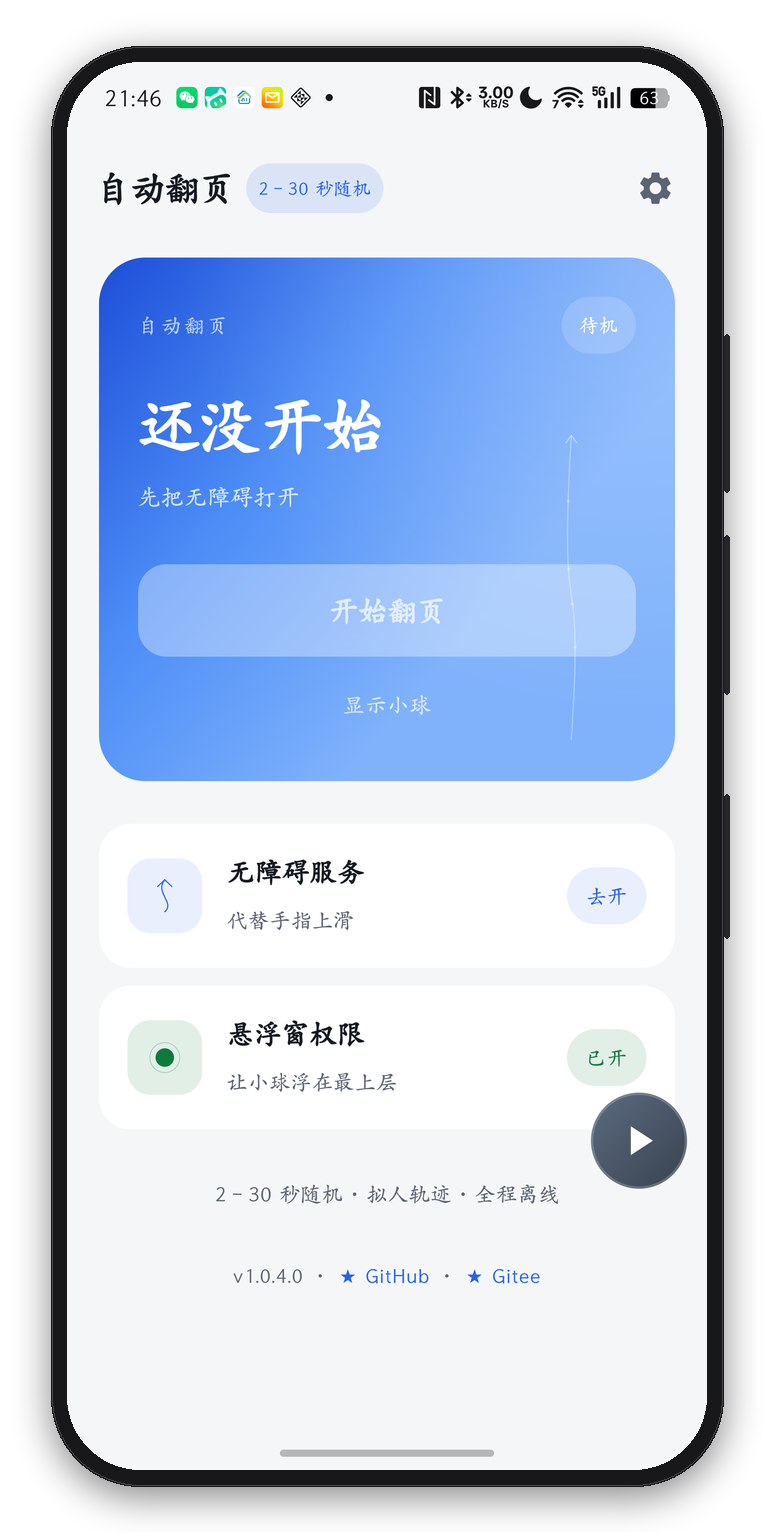
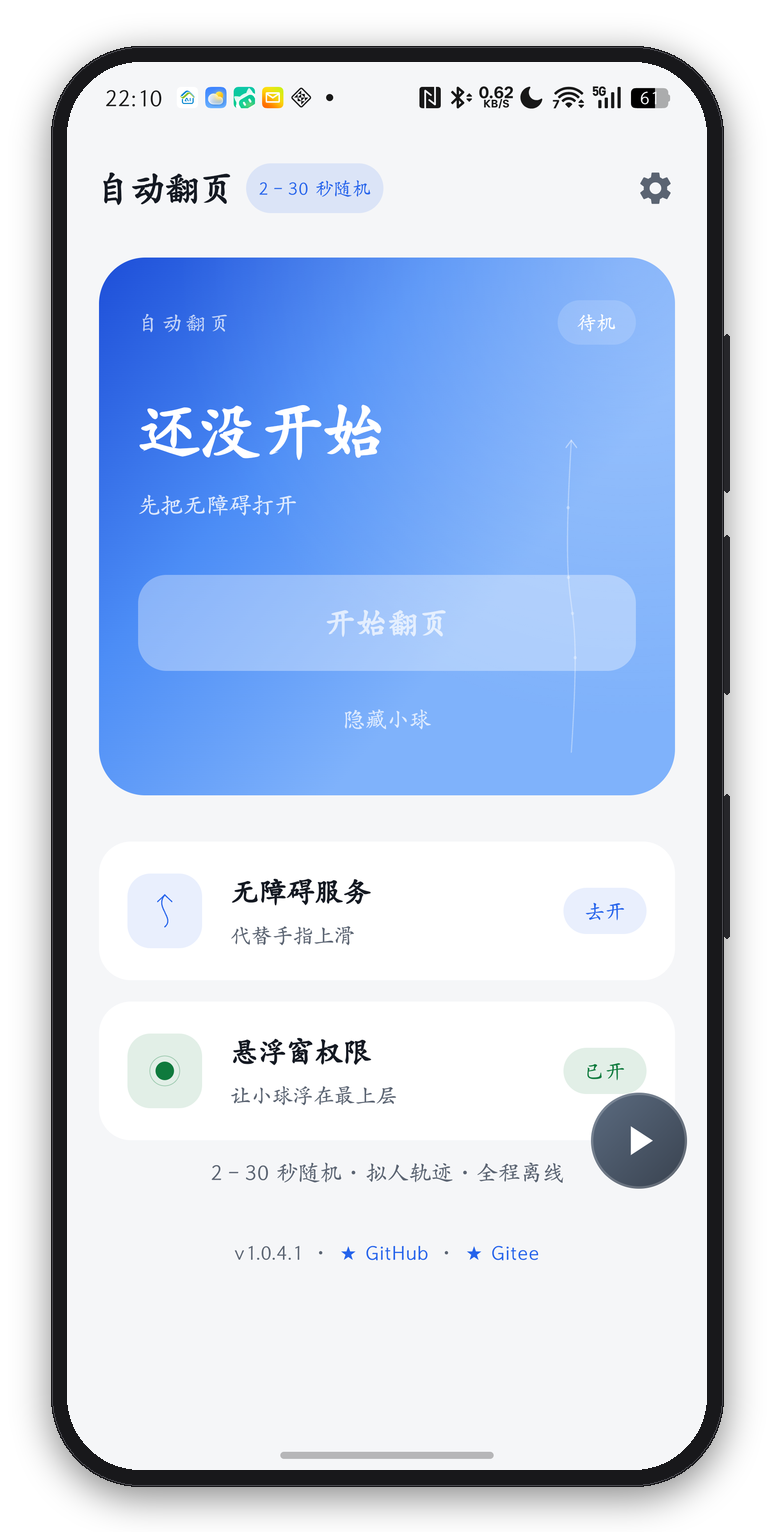
style(ui): 重排首页字距与行距，README 下载与安装前置（1.0.4.1）

diff --git a/app/src/main/java/com/neurotracee/autoswipe/ui/HomeScreen.kt b/app/src/main/java/com/neurotracee/autoswipe/ui/HomeScreen.kt
@@ -74,7 +74,7 @@ fun HomeScreen(
             onToggleBall = onToggleBall
         )
 
-        Spacer(Modifier.height(24.dp))
+        Spacer(Modifier.height(26.dp))
         PermissionRow(
             glyph = Glyph.Swipe,
             title = tr("无障碍服务", "Accessibility"),
@@ -82,7 +82,7 @@ fun HomeScreen(
             done = accessibilityOn,
             onOpen = onOpenAccessibility
         )
-        Spacer(Modifier.height(10.dp))
+        Spacer(Modifier.height(12.dp))
         PermissionRow(
             glyph = Glyph.Ball,
             title = tr("悬浮窗权限", "Overlay"),
@@ -91,19 +91,21 @@ fun HomeScreen(
             onOpen = onOpenOverlay
         )
 
-        Spacer(Modifier.height(24.dp))
+        Spacer(Modifier.height(8.dp))
         Text(
             tr(
                 "2–30 秒随机 · 拟人轨迹 · 全程离线",
-                "2–30 s random · human-like path · fully offline"
+                "2–30 s · human-like · offline"
             ),
-            fontSize = 11.5.sp,
+            fontSize = 12.sp,
+            lineHeight = 20.sp,
+            letterSpacing = 0.4.sp,
             color = MaterialTheme.colorScheme.onSurfaceVariant,
             modifier = Modifier.fillMaxWidth(),
             textAlign = TextAlign.Center
         )
 
-        Spacer(Modifier.height(22.dp))
+        Spacer(Modifier.height(26.dp))
         Footer(onOpenRepo = onOpenRepo, onOpenGitee = onOpenGitee)
         Spacer(Modifier.height(14.dp))
     }
@@ -166,13 +168,14 @@ private fun HeroCard(
             drawSwipeTrail(size.width * 0.82f, size.height * 0.34f, size.height * 0.92f)
         }
 
-        Column(Modifier.padding(horizontal = 22.dp, vertical = 22.dp)) {
+        Column(Modifier.padding(horizontal = 22.dp, vertical = 24.dp)) {
             Row(verticalAlignment = Alignment.CenterVertically) {
                 Text(
                     tr("自动翻页", "AUTO SWIPE"),
                     fontSize = 11.sp,
-                    letterSpacing = 2.sp,
-                    color = Color.White.copy(alpha = 0.7f)
+                    lineHeight = 16.sp,
+                    letterSpacing = 2.4.sp,
+                    color = Color.White.copy(alpha = 0.72f)
                 )
                 Spacer(Modifier.weight(1f))
                 Surface(
@@ -181,24 +184,39 @@ private fun HeroCard(
                 ) {
                     Text(
                         if (running) tr("运行中", "Running") else tr("待机", "Idle"),
-                        Modifier.padding(horizontal = 10.dp, vertical = 4.dp),
+                        Modifier.padding(horizontal = 11.dp, vertical = 5.dp),
                         fontSize = 10.5.sp,
+                        lineHeight = 15.sp,
+                        letterSpacing = 0.6.sp,
                         color = Color.White
                     )
                 }
             }
 
-            Spacer(Modifier.height(18.dp))
-            Text(title, fontSize = 34.sp, fontWeight = FontWeight.Bold, color = Color.White)
-            Spacer(Modifier.height(6.dp))
-            Text(sub, fontSize = 12.5.sp, color = Color.White.copy(alpha = 0.8f))
-
             Spacer(Modifier.height(26.dp))
+            Text(
+                title,
+                fontSize = 34.sp,
+                lineHeight = 42.sp,
+                letterSpacing = 0.6.sp,
+                fontWeight = FontWeight.Bold,
+                color = Color.White
+            )
+            Spacer(Modifier.height(10.dp))
+            Text(
+                sub,
+                fontSize = 12.5.sp,
+                lineHeight = 19.sp,
+                letterSpacing = 0.3.sp,
+                color = Color.White.copy(alpha = 0.82f)
+            )
+
+            Spacer(Modifier.height(30.dp))
             val btnBg = if (accessibilityOn) Color.White else Color.White.copy(alpha = 0.35f)
             Box(
                 Modifier
                     .fillMaxWidth()
-                    .height(52.dp)
+                    .height(54.dp)
                     .clip(RoundedCornerShape(16.dp))
                     .background(btnBg)
                     .clickable(enabled = accessibilityOn) { if (running) onStop() else onStart() },
@@ -206,21 +224,25 @@ private fun HeroCard(
             ) {
                 Text(
                     if (running) tr("暂停", "Pause") else tr("开始翻页", "Start"),
-                    fontSize = 16.sp,
+                    fontSize = 16.5.sp,
+                    lineHeight = 22.sp,
+                    letterSpacing = 1.2.sp,
                     fontWeight = FontWeight.SemiBold,
                     color = if (accessibilityOn) Color(0xFF33406B) else Color.White.copy(alpha = 0.7f)
                 )
             }
-            Spacer(Modifier.height(6.dp))
+            Spacer(Modifier.height(8.dp))
             Text(
                 if (ballVisible) tr("隐藏小球", "Hide ball") else tr("显示小球", "Show ball"),
                 fontSize = 12.sp,
+                lineHeight = 18.sp,
+                letterSpacing = 0.5.sp,
                 color = Color.White.copy(alpha = 0.75f),
                 textAlign = TextAlign.Center,
                 modifier = Modifier
                     .fillMaxWidth()
                     .clickable { onToggleBall() }
-                    .padding(vertical = 9.dp)
+                    .padding(vertical = 10.dp)
             )
         }
     }
@@ -279,7 +301,7 @@ private fun PermissionRow(
         modifier = Modifier.fillMaxWidth().clickable { onOpen() }
     ) {
         Row(
-            Modifier.padding(horizontal = 16.dp, vertical = 15.dp),
+            Modifier.padding(horizontal = 16.dp, vertical = 17.dp),
             verticalAlignment = Alignment.CenterVertically
         ) {
             Box(
@@ -322,16 +344,24 @@ private fun PermissionRow(
                     }
                 }
             }
-            Spacer(Modifier.width(14.dp))
+            Spacer(Modifier.width(16.dp))
             Column(Modifier.weight(1f)) {
                 Text(
                     title,
-                    fontSize = 15.sp,
+                    fontSize = 15.5.sp,
+                    lineHeight = 22.sp,
+                    letterSpacing = 0.3.sp,
                     fontWeight = FontWeight.SemiBold,
                     color = MaterialTheme.colorScheme.onSurface
                 )
-                Spacer(Modifier.height(3.dp))
-                Text(hint, fontSize = 11.5.sp, color = MaterialTheme.colorScheme.onSurfaceVariant)
+                Spacer(Modifier.height(5.dp))
+                Text(
+                    hint,
+                    fontSize = 11.5.sp,
+                    lineHeight = 17.sp,
+                    letterSpacing = 0.2.sp,
+                    color = MaterialTheme.colorScheme.onSurfaceVariant
+                )
             }
             Surface(
                 shape = RoundedCornerShape(999.dp),
@@ -339,8 +369,10 @@ private fun PermissionRow(
             ) {
                 Text(
                     if (done) tr("已开", "On") else tr("去开", "Turn on"),
-                    Modifier.padding(horizontal = 11.dp, vertical = 4.dp),
+                    Modifier.padding(horizontal = 12.dp, vertical = 5.dp),
                     fontSize = 11.sp,
+                    lineHeight = 16.sp,
+                    letterSpacing = 0.4.sp,
                     fontWeight = FontWeight.Medium,
                     color = if (done) SuccessGreen else BrandBlue
                 )
@@ -371,18 +403,28 @@ private fun Footer(onOpenRepo: () -> Unit, onOpenGitee: () -> Unit) {
         horizontalArrangement = Arrangement.Center,
         verticalAlignment = Alignment.CenterVertically
     ) {
-        Text("v" + BuildConfig.VERSION_NAME, fontSize = 11.sp, color = MaterialTheme.colorScheme.onSurfaceVariant)
-        Text("  ·  ", fontSize = 11.sp, color = MaterialTheme.colorScheme.onSurfaceVariant)
+        Text(
+            "v" + BuildConfig.VERSION_NAME,
+            fontSize = 11.sp,
+            lineHeight = 18.sp,
+            letterSpacing = 0.4.sp,
+            color = MaterialTheme.colorScheme.onSurfaceVariant
+        )
+        Text("  ·  ", fontSize = 11.sp, lineHeight = 18.sp, color = MaterialTheme.colorScheme.onSurfaceVariant)
         Text(
             "★ GitHub",
             fontSize = 11.sp,
+            lineHeight = 18.sp,
+            letterSpacing = 0.4.sp,
             color = MaterialTheme.colorScheme.primary,
             modifier = Modifier.clickable { onOpenRepo() }
         )
-        Text("  ·  ", fontSize = 11.sp, color = MaterialTheme.colorScheme.onSurfaceVariant)
+        Text("  ·  ", fontSize = 11.sp, lineHeight = 18.sp, color = MaterialTheme.colorScheme.onSurfaceVariant)
         Text(
             "★ Gitee",
             fontSize = 11.sp,
+            lineHeight = 18.sp,
+            letterSpacing = 0.4.sp,
             color = MaterialTheme.colorScheme.primary,
             modifier = Modifier.clickable { onOpenGitee() }
         )

diff --git a/docs/release-1.0.4.1.md b/docs/release-1.0.4.1.md
@@ -1,0 +1,41 @@
+更新级别：建议
+
+> **一句话**：把首页的字距、行距和块间距重排了一遍——状态归状态、说明归说明，不再挤成一团。
+
+## 1. 排版节奏
+
+- 主状态那行（还没开始 / 已暂停 / 正在翻页）：行高从默认拉到 42sp，上距 26dp、下距 10dp，标题与副行之间真正空出一截。
+- 副行（已翻几页 / 下次几秒）行高 19sp、字距 0.3sp、白色透明度调到 0.82，比标题退一层，但看得清。
+- 卡片内经手、按钮、文字链：内边距 24dp，按钮高度 54dp，「开始翻页」加 1.2sp 字距；「显示 / 隐藏小球」上距 8dp、上下各留 10dp 点击区，不再贴着按钮。
+- 「自动翻页」小标与「待机 / 运行中」标签：字距 2.4sp / 0.6sp，标签内边距加宽，读起来不再是一个色块。
+- 两行权限：标题 15.5sp / 行高 22sp，提示 11.5sp / 行高 17sp，两者间距 5dp，圆角方块与文字间距 16dp，整行上下留 17dp。
+- 底部一行小字：字号 12sp、行高 20sp、字距 0.4sp，与权限区之间空 26dp；页脚版本号与两个 Star 链接也加了 0.4sp 字距和 18sp 行高。
+- 英文那句一长串小字（`2–30 s random · human-like path · fully offline`）在真机上会被悬浮球压住，缩为 `2–30 s · human-like · offline`。
+
+## 2. README
+
+- 「下载与安装」整节提到「这个项目是谁做的」和「关于署名」前面，开头就直给 GitHub / Gitee 的 releases/latest 链接，先让人下载再谈别的。
+- 英文段同样把 `### Download & install` 提到 `### Who made this` 之前。
+- 首页截图换成这一版，主视觉图和合成图一并重出。
+
+## English · Release Notes
+
+Level: recommended
+
+> **In one line**: the home screen's letter spacing, line heights and block gaps were retuned — status reads as status, notes read as notes, nothing is crammed together.
+
+### 1. Typographic rhythm
+
+- The main state line (not running / paused / swiping) now has a 42sp line height, 26dp above and 10dp below, so the headline and the line under it actually breathe.
+- The sub-line (swipes done / seconds to the next one) uses a 19sp line height, 0.3sp letter spacing and 82% white — one step back from the headline, still legible.
+- Inside the card: 24dp padding, a 54dp button, 1.2sp letter spacing on "Start"; show/hide ball sits 8dp under the button with 10dp vertical touch padding.
+- The "AUTO SWIPE" label and the Idle/Running chip got wider letter spacing and roomier padding, so they no longer read as one solid block.
+- Permission rows: 15.5sp title with a 22sp line height, 11.5sp hint with 17sp, 5dp between them, 16dp after the glyph, 17dp row padding.
+- The single line of small print is now 12sp with a 20sp line height and 0.4sp spacing, sitting 26dp under the permission rows; the footer line got the same treatment.
+- The long English line (`2–30 s random · human-like path · fully offline`) ran under the floating ball on real devices, so it is now `2–30 s · human-like · offline`.
+
+### 2. README
+
+- The "Download & install" section moved above "Who made this" and "Attribution", opening with the direct GitHub / Gitee `releases/latest` links.
+- The English section does the same: `### Download & install` now precedes `### Who made this`.
+- Home screenshots were recaptured from this build; the hero and composites were regenerated.

diff --git a/CHANGELOG.md b/CHANGELOG.md
@@ -1,5 +1,16 @@
 # 更新记录
 
+## 1.0.4.1
+
+首页排版节奏重调：状态、副行、按钮、权限、小字各归各位，行高与块间距加大。
+
+- 主状态行高 42sp，上距 26dp、下距 10dp；副行行高 19sp，与标题真正分开。
+- 卡片内边距 24dp，按钮高 54dp；「显示 / 隐藏小球」不再贴着按钮。
+- 两行权限标题 15.5sp / 行高 22sp，提示 11.5sp / 行高 17sp，彼此间距 5dp。
+- 底部小字 12sp / 行高 20sp / 字距 0.4sp；页脚同样加字距。
+- 英文底部小字缩短为 `2–30 s · human-like · offline`，不再被悬浮球压住。
+- README「下载与安装」提到署名之前，开头直给两个平台的 releases/latest 链接（中英同步）。
+
 ## 1.0.4.0
 
 首页整个重做：一张渐变主卡 + 两行权限 + 一行小字，说明文字全部收掉。
